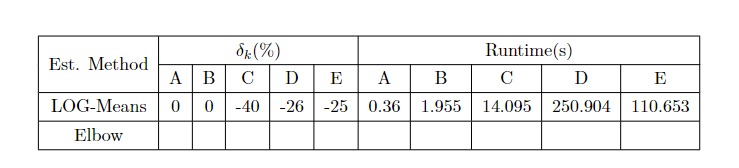
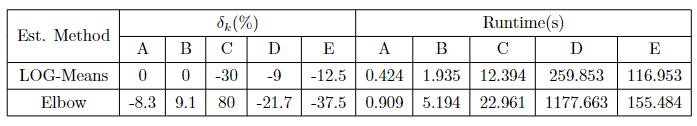
finish > add elbow algorithm for comparision

Changed region(s): [[0.0, 0.119, 0.9943, 0.9286], [0.0, 0.0714, 0.9943, 0.0952], [0.9039, 0.7619, 0.9943, 0.8571]]

diff --git a/src/main.cpp b/src/main.cpp
@@ -8,6 +8,7 @@
 #include "utils.hpp"
 #include "spdlog_common.h"
 #include "kmeans.hpp"
+#include "elbow.hpp"
 #include "log_means.hpp"
 #include <eigen-3.4.0/Eigen/Dense>
 #ifndef EIGEN_USE_MKL_ALL
@@ -26,10 +27,12 @@ std::vector<std::string> datasets = {
 };
 
 struct MyArgs: public argparse::Args {
+    bool &elbow = flag("e,elbow", "Run elbow method");
     bool &all = flag("a,all", "Run all datasets");
     // 大范围搜索模式
     bool &search = flag("s,search", "Large search space mode - k: [2, 2c] or k: [2, 10c]");
     std::string &dataset = kwarg("d,dataset", "Dataset name [Avila/DSDD/KDD/KITSUNE10/KITSUNE/MNIST] ").set_default("Avila");
+    std::string &initMode = kwarg("i,init", "Init mode [random/kmeans++/kmeans||)]").set_default("kmeans||");
 };
 
 int main(int argc, const char *argv[]) {
@@ -40,6 +43,7 @@ int main(int argc, const char *argv[]) {
     Eigen::initParallel(); 
     MyArgs args = argparse::parse<MyArgs>(argc, argv);
     util::inifile ini("config.ini");
+    auto initMode = args.initMode;
     if (args.all) {
         ProgressBar bar{option::BarWidth{50},
             option::Start{"["},
@@ -68,20 +72,30 @@ int main(int argc, const char *argv[]) {
             auto data = utils::ifs_read_data_from_file<float>(location, num, dim);
 
             // 预估聚类数
-            LogMeans log_means(dataset);
-            // 搜索范围为 [0.5c, 2c]
-            int k_low = classes / 2;
-            int k_high = args.search ? 10 * classes : 2 * classes;
-            auto k = log_means.run<float>(data, k_low, k_high);
-            SPDLOG_INFO("Estimated number of clusters: {}", k);
+            int k = 0;
+            if (args.elbow) {
+                Elbow elbow(dataset, initMode);
+                // 搜索范围为 [2, 2c]
+                int k_low = 2;
+                int k_high = args.search ? 10 * classes : 2 * classes;
+                // 半自动， 不需要输出
+                elbow.run<float>(data, k_low, k_high);
+                SPDLOG_INFO("You should choose the number of clusters from the elbow plot.");
+            } else {
+                LogMeans log_means(dataset, initMode);
+                // 搜索范围为 [0.5c, 2c]
+                int k_low = classes / 2;
+                int k_high = args.search ? 10 * classes : 2 * classes;
+                k = log_means.run<float>(data, k_low, k_high);
+                SPDLOG_INFO("Estimated number of clusters: {}", k);
+                float delta = utils::compute_delta(k, classes);
+                SPDLOG_INFO("Delta: {:.5f}", delta);
+            }
 
             SPDLOG_INFO("Done Running dataset {}", dataset);
             
             auto end = std::chrono::steady_clock::now();
             SPDLOG_INFO("Time elapsed: {}ms", std::chrono::duration_cast<std::chrono::milliseconds>(end - start).count());
-
-            float delta = utils::compute_delta(k, classes);
-            SPDLOG_INFO("Delta: {:.5f}", delta);
 
             cnt++;
             if (cnt == 5) {
@@ -115,28 +129,38 @@ int main(int argc, const char *argv[]) {
         SPDLOG_INFO("Number of samples: {}", num);
         SPDLOG_INFO("Dimension: {}", dim);
         SPDLOG_INFO("Number of classes: {}", classes);
+        SPDLOG_INFO("Init Mode: {}", args.initMode);
 
-        auto job = [&bar, &dataset, &location, &num, &dim, &classes, &args]() {
+        auto job = [&bar, &dataset, &location, &num, &dim, &classes, &args, &initMode]() {
             // 计算花费时间
             auto start = std::chrono::steady_clock::now();
             // 读取数据集
             auto data = utils::ifs_read_data_from_file<float>(location, num, dim);
             
             // 预估聚类数
-            LogMeans log_means(dataset);
-            // 搜索范围为 [0.5c, 2c]
-            int k_low = classes / 2;
-            int k_high = args.search ? 10 * classes : 2 * classes;
-            auto k = log_means.run<float>(data, k_low, k_high);
-            SPDLOG_INFO("Estimated number of clusters: {}", k);
-
+            int k = 0;
+            if (args.elbow) {
+                Elbow elbow(dataset, initMode);
+                // 搜索范围为 [2, 2c]
+                int k_low = 2;
+                int k_high = args.search ? 10 * classes : 2 * classes;
+                // 半自动， 不需要输出
+                elbow.run<float>(data, k_low, k_high);
+                SPDLOG_INFO("You should choose the number of clusters from the elbow plot.");
+            } else {
+                LogMeans log_means(dataset, initMode);
+                // 搜索范围为 [0.5c, 2c]
+                int k_low = classes / 2;
+                int k_high = args.search ? 10 * classes : 2 * classes;
+                k = log_means.run<float>(data, k_low, k_high);
+                SPDLOG_INFO("Estimated number of clusters: {}", k);
+                float delta = utils::compute_delta(k, classes);
+                SPDLOG_INFO("Delta: {:.5f}", delta);
+            }
             bar.mark_as_completed();
             SPDLOG_INFO("Done Running dataset {}", dataset);
             auto end = std::chrono::steady_clock::now();
             SPDLOG_INFO("Time elapsed: {}ms", std::chrono::duration_cast<std::chrono::milliseconds>(end - start).count());
-
-            float delta = utils::compute_delta(k, classes);
-            SPDLOG_INFO("Delta: {:.5f}", delta);
         };
         std::thread job_completion_thread(job);
 

diff --git a/include/elbow.hpp b/include/elbow.hpp
@@ -1,0 +1,62 @@
+#ifndef __ELBOW_HPP__
+#define __ELBOW_HPP__
+#include "kmeans.hpp"
+#include "utils.hpp"
+#include "json11.hpp"
+
+class Elbow {
+public:
+    Elbow(std::string dataset, std::string initMode) : initMode(initMode) {
+        result = json11::Json::object({
+            {"dataset", dataset},
+            {"k", 0},
+            {"sse", 0},
+            {"sse_hist", json11::Json::array()}
+        });
+    }
+    /**
+     * @brief 预估数据集簇的数量
+     * @param data 数据集
+     * @param klow 最小簇数量
+     * @param khigh 最大簇数量
+    */
+    template<typename Scalar>
+    void run(Eigen::Matrix<Scalar, Eigen::Dynamic, Eigen::Dynamic, Eigen::RowMajor> &data, int k_low, int k_high) {
+        Scalar ssePrev1;
+        Scalar ssePrev2;
+        Scalar diff;
+        for (int k = k_low; k <= k_high; k++) {
+            KMeans kmeans(k, initMode);
+            auto centroids = kmeans.fit<Scalar>(data);
+            auto sse = utils::compute_sse<Scalar>(data, centroids);
+            // 向sse_hist中插入一条记录(k, sse)
+            auto result_items = result.object_items();
+            std::vector<json11::Json> new_array = result_items["sse_hist"].array_items();
+            new_array.push_back(json11::Json::array({k, sse}));
+            result_items["sse_hist"] = new_array;
+            result = json11::Json(result_items);
+
+            if (k == k_low) {
+                ssePrev1 = sse;
+            } else if (k == k_low + 1) {
+                ssePrev2 = sse;
+            } else {
+                diff = (ssePrev1 - ssePrev2) - (ssePrev2 - sse);
+                ssePrev1 = ssePrev2;
+                ssePrev2 = sse;
+                std::cout << "ELBOW DIFF (K = "<< k - 1 <<") = " << diff << std::endl;
+            }
+            std::cout << "K =  " << k << ", SSE = " << sse << std::endl;
+        }
+
+        // 将result写入result.json文件
+        std::ofstream ofs("result_elbow_" + result["dataset"].string_value() + ".json");
+        ofs << result.dump();
+        ofs.close();
+    }
+private:
+    json11::Json result;
+    std::string initMode;
+};
+
+#endif // __ELBOW_HPP__

diff --git a/include/kmeans.hpp b/include/kmeans.hpp
@@ -16,7 +16,7 @@
 
 class KMeans {
 public:
-    KMeans(int k, int maxIter = 20, int initSteps = 2, double tol = 1e-4) : k(k), maxIter(maxIter), initSteps(initSteps), tol(tol) {}
+    KMeans(int k, std::string initMode, int maxIter = 20, int initSteps = 2, double tol = 1e-4) : k(k), maxIter(maxIter), initSteps(initSteps), tol(tol), initMode(initMode) {}
 
     void set_k(int k) { 
         this->k = k; 
@@ -72,6 +72,9 @@ private:
     int initSteps;
     // the convergence tolerance for iterative algorithms (>= 0).
     double tol;
+    // the way to init centroids
+    std::string initMode;
+    // random generator
     Random random;
 };
 
@@ -241,9 +244,18 @@ template<typename Scalar>
 std::vector<Eigen::RowVector<Scalar, Eigen::Dynamic>> KMeans::fit(Eigen::Matrix<Scalar, Eigen::Dynamic, Eigen::Dynamic, Eigen::RowMajor> &data) {
     int n = data.rows();
     int dim = data.cols();
-
-    // KMeansⅡ初始化质心
-    auto centroids = init_centroids<Scalar>(data);
+    
+    // 初始化质心
+    std::vector<Eigen::RowVector<Scalar, Eigen::Dynamic>> centroids;
+    if (initMode == "kmeans||") {
+        centroids = init_centroids<Scalar>(data);
+    } else if (initMode == "kmeans++") {
+        centroids = kmeans_plus_plus_init_centroids<Scalar>(data);
+    } else if (initMode == "random") {
+        centroids = random_init_centroids<Scalar>(data);
+    } else {
+        throw std::invalid_argument("initMode must be one of 'kmeans||', 'kmeans++' and 'random'");
+    }
 
     std::vector<std::vector<Eigen::RowVector<Scalar, Eigen::Dynamic>>> clusters(k, std::vector<Eigen::RowVector<Scalar, Eigen::Dynamic>>());
     

diff --git a/include/log_means.hpp b/include/log_means.hpp
@@ -8,7 +8,7 @@
 
 class LogMeans {
 public:
-    LogMeans(std::string dataset) {
+    LogMeans(std::string dataset, std::string initMode) : initMode(initMode) {
         result = json11::Json::object({
             {"dataset", dataset},
             {"k", 0},
@@ -19,7 +19,7 @@ public:
 
     template<typename Scalar>
     Scalar kmeans_sse(Eigen::Matrix<Scalar, Eigen::Dynamic, Eigen::Dynamic, Eigen::RowMajor> &data, int k) {
-        KMeans kmeans(k);
+        KMeans kmeans(k, initMode);
         auto centroids = kmeans.fit<Scalar>(data);
         auto sse =  utils::compute_sse<Scalar>(data, centroids);
         // 向sse_hist中插入一条记录(k, sse)
@@ -52,6 +52,7 @@ public:
 
 private:
     json11::Json result;
+    std::string initMode;
     bool directly_adjacent(int k_low, int k_high) {
         return k_low + 1 == k_high;
     }
@@ -99,7 +100,7 @@ int LogMeans::run(Eigen::Matrix<Scalar, Eigen::Dynamic, Eigen::Dynamic, Eigen::R
     result = json11::Json(result_items);
 
     // 将result写入result.json文件
-    std::ofstream ofs("result_" + result["dataset"].string_value() + ".json");
+    std::ofstream ofs("result_logmeans_" + result["dataset"].string_value() + ".json");
     ofs << result.dump();
     ofs.close();
 
